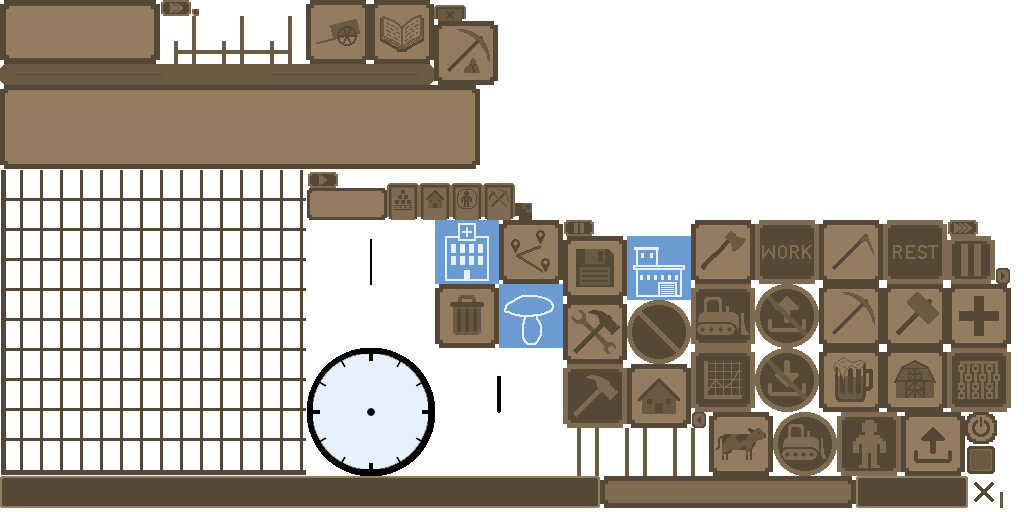
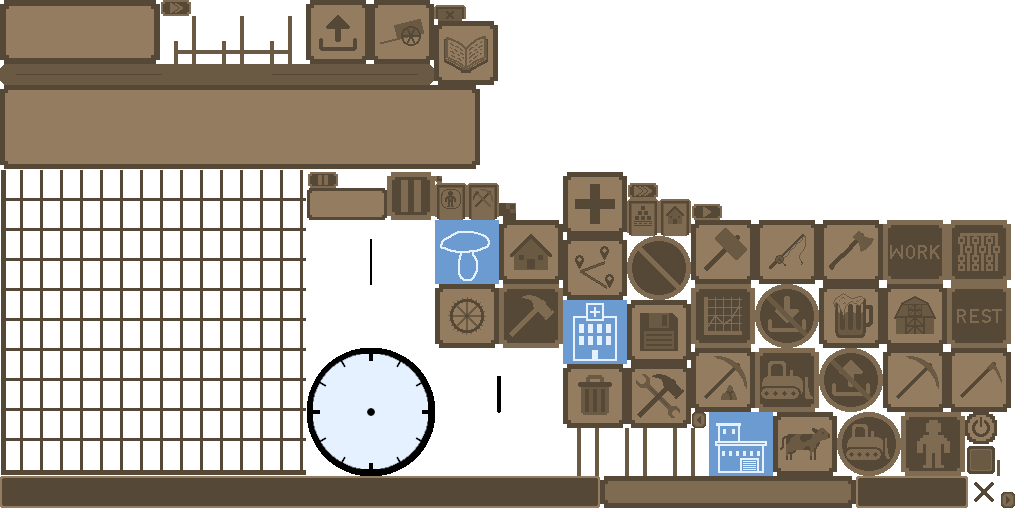
new textures

Changed region(s): [[0.375, 0.3125, 1.0, 0.9375], [0.3125, 0.0312, 0.5, 0.1562], [0.9688, 0.9375, 1.0, 1.0]]

diff --git a/core/src/com/boxhead/builder/ui/UI.java b/core/src/com/boxhead/builder/ui/UI.java
@@ -813,7 +813,8 @@ public class UI {
                     Pair.of(ProductionBuilding.Type.STONE_GATHERERS, Textures.Ui.PICKAXE_WITH_STONE),
                     Pair.of(PlantationBuilding.Type.PLANTATION, Textures.Ui.HOE),
                     Pair.of(RanchBuilding.Type.RANCH, Textures.Ui.COW),
-                    Pair.of(WaterBuilding.Type.FISHING_HUT, Textures.Ui.FUNGUS)
+                    Pair.of(WaterBuilding.Type.FISHING_HUT, Textures.Ui.FISHING_ROD),
+                    Pair.of(WaterBuilding.Type.WATERMILL, Textures.Ui.WHEEL)
             );
 
             //services
@@ -906,10 +907,13 @@ public class UI {
 
                 this.buttons = new Button[buttons.length];
 
-                int x = 0, y = -64;
+                int x = 0, y = PADDING;
                 for (int i = 0; i < buttons.length; i++) {
                     Pair<Building.Type, Textures.Ui> pair = buttons[i];
-                    if (i%ROW_LENGTH == 0) x = 0;
+                    if (i%ROW_LENGTH == 0) {
+                        y -= PADDING + 64;
+                        x = 0;
+                    }
                     Button button = new Button(Textures.get(pair.second), this, Layer.IN_GAME, new Vector2i(x, y));
                     button.setOnUp(() -> showBuildingStats(pair.first));
                     x += 74;

diff --git a/core/src/com/boxhead/builder/game_objects/buildings/WaterBuilding.java b/core/src/com/boxhead/builder/game_objects/buildings/WaterBuilding.java
@@ -12,15 +12,27 @@ public class WaterBuilding extends ProductionBuilding {
         protected static Type[] values;
 
         public static final Type FISHING_HUT = new Type(
-                Textures.Building.BUILDERS_HUT,
+                Textures.Building.FISHING_HUT,
                 "fishing hut",
-                new Vector2i(1, -1),
-                new BoxCollider(0, 0, 4, 2),
+                new Vector2i(0, -1),
+                new BoxCollider(0, 0, 3, 2),
                 new Recipe(Pair.of(Resource.WOOD, 20)),
                 Jobs.FISHERMAN,
                 3,
                 10,
-                new BoxCollider(5, 0, 1, 2)
+                new BoxCollider(3, 0, 2, 2)
+        );
+
+        public static final Type WATERMILL = new Type(
+                Textures.Building.WATERMILL,
+                "watermill",
+                new Vector2i(2, -1),
+                new BoxCollider(0, 0, 4, 4),
+                new Recipe(Pair.of(Resource.WOOD, 20)),
+                Jobs.FISHERMAN,
+                3,
+                10,
+                new BoxCollider(4, 0, 1, 4)
         );
 
         static {

diff --git a/core/src/com/boxhead/builder/game_objects/buildings/ConstructionSite.java b/core/src/com/boxhead/builder/game_objects/buildings/ConstructionSite.java
@@ -1,9 +1,9 @@
 package com.boxhead.builder.game_objects.buildings;
 
 import com.badlogic.gdx.graphics.g2d.SpriteBatch;
-import com.boxhead.builder.*;
 import com.boxhead.builder.Logistics;
 import com.boxhead.builder.Resource;
+import com.boxhead.builder.Textures;
 import com.boxhead.builder.World;
 import com.boxhead.builder.game_objects.Villager;
 import com.boxhead.builder.utils.BoxCollider;
@@ -29,7 +29,6 @@ public class ConstructionSite extends BuildSite {
     @Override
     public void draw(SpriteBatch batch) {
         super.draw(batch);
-        drawIndicator(batch);
     }
 
     @Override
@@ -82,6 +81,7 @@ public class ConstructionSite extends BuildSite {
         }
     }
 
+    @Override
     protected void drawIndicator(SpriteBatch batch) {
         if (false)  //TODO check if demolishing
             drawIndicator(Textures.get(Textures.Ui.DEMOLISHING), batch);

diff --git a/core/src/com/boxhead/builder/game_objects/Villager.java b/core/src/com/boxhead/builder/game_objects/Villager.java
@@ -37,7 +37,7 @@ public class Villager extends NPC implements Clickable {
     private float education = 0f;
     private final float[] stats = new float[Stat.values().length];
     private final int skin;
-    protected transient Textures.NpcAnimation[] animations = new Textures.NpcAnimation[Animation.values().length];
+    protected transient Textures.NpcAnimation[] animations;
 
     private final Villager[] parents = new Villager[2];
     private Villager partner = null;
@@ -85,6 +85,7 @@ public class Villager extends NPC implements Clickable {
     }
 
     private void initAnimations() {
+        animations = new Textures.NpcAnimation[Animation.values().length];
         for (int i = 0; i < animations.length; i++) {
             animations[i] = Enum.valueOf(Textures.NpcAnimation.class, Animation.values()[i].name() + skin);
         }

diff --git a/core/src/com/boxhead/builder/game_objects/buildings/Building.java b/core/src/com/boxhead/builder/game_objects/buildings/Building.java
@@ -122,6 +122,12 @@ public class Building extends GameObject implements Clickable {
         inventory = new Inventory(storageCapacity);
     }
 
+    @Override
+    public void draw(SpriteBatch batch) {
+        super.draw(batch);
+        drawIndicator(batch);
+    }
+
     public Type getType() {
         return type;
     }
@@ -266,6 +272,12 @@ public class Building extends GameObject implements Clickable {
             reservedTotals.remove(resource);
         else
             reservedTotals.put(resource, reserved);
+    }
+
+    protected void drawIndicator(SpriteBatch batch) {
+        if (inventory.isFull()) {
+            drawIndicator(Textures.get(Textures.Ui.NO_INPUT), batch);
+        }
     }
 
     protected void drawIndicator(TextureRegion texture, SpriteBatch batch) {

diff --git a/core/src/com/boxhead/builder/Textures.java b/core/src/com/boxhead/builder/Textures.java
@@ -110,6 +110,8 @@ public class Textures {
         PUB, PUB_CS,
         HOSPITAL, HOSPITAL_CS,
         SCHOOL, SCHOOL_CS,
+        WATERMILL, WATERMILL_CS,
+        FISHING_HUT, FISHING_HUT_CS,
 
         FUNGUS, SERVICE_FUNGUS, SERVICE_FUNGUS_CS
     }
@@ -147,7 +149,7 @@ public class Textures {
 
         INFRASTRUCTURE_TAB, HOUSING_TAB, RESOURCES_TAB, SERVICES_TAB, DIVIDER,
         HOUSE, AXE, PICKAXE, PICKAXE_WITH_STONE, BIG_HAMMER, BARN, CARRIAGE, SERVICE, CONSTRUCTION_OFFICE, HOE, MUG,
-        PATH, CROSS, BOOK, COW, BUILD,
+        PATH, CROSS, BOOK, COW, BUILD, FISHING_ROD, WHEEL,
 
         SAVE, LOAD, DELETE,
 

diff --git a/core/src/com/boxhead/builder/game_objects/buildings/ProductionBuilding.java b/core/src/com/boxhead/builder/game_objects/buildings/ProductionBuilding.java
@@ -498,10 +498,9 @@ public class ProductionBuilding extends Building {
         }
 
         super.draw(batch);
-
-        drawIndicator(batch);
     }
 
+    @Override
     protected void drawIndicator(SpriteBatch batch) {
         TextureRegion texture;
         switch (inventory.checkStorageAvailability(getType().job.getRecipe(this))) {

diff --git a/core/src/com/boxhead/builder/GameScreen.java b/core/src/com/boxhead/builder/GameScreen.java
@@ -32,7 +32,6 @@ public class GameScreen implements Screen {
         renderer = new ShapeRenderer();
         renderer.setAutoShapeType(true);
 
-        Textures.init();
         Tile.init();
         World.generate(60, new Vector2i(101, 101));
         World.temp();

diff --git a/core/src/com/boxhead/builder/BuilderGame.java b/core/src/com/boxhead/builder/BuilderGame.java
@@ -37,6 +37,7 @@ public class BuilderGame extends Game {
 
     @Override
     public void create() {
+        Textures.init();
         batch = new SpriteBatch();
         gameScreen = new GameScreen(batch);
         loadingScreen = new LoadingScreen(batch);
